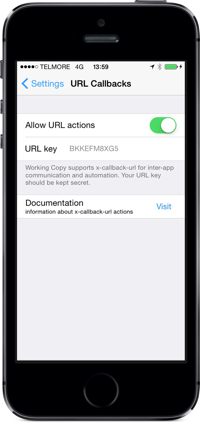
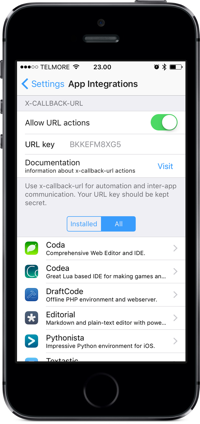
describe DraftCode and update app integration screenshots

Changed region(s): [[0.09, 0.1226, 0.93, 0.8585]]

diff --git a/index.html b/index.html
@@ -416,8 +416,8 @@
             var post = $.post("/signup.php", { "email": email} )
                     .done(function() {
                         $('.signup').slideUp(300, function() {
-                            showStatus("You have signed up with " + email + " for beta-testing. Thank you!");
-                            //showStatus("You have signed up with " + email + " for beta-testing. I am working on the next beta and you will receive a TestFlight email from Apple as soon as this is ready.");
+                            //showStatus("You have signed up with " + email + " for beta-testing. Thank you!");
+                            showStatus("You have signed up with " + email + " for beta-testing. I am working on the next beta and you will receive a TestFlight email from Apple as soon as this is ready.");
                         });
                     })
                     .fail(function() {

diff --git a/git/index.html b/git/index.html
@@ -681,7 +681,7 @@
 
         getScript('/js/jquery.min.js',function(){
             resolveEmails();
-            populatePage();
+            //populatePage();
         });
     })();
 </script>
